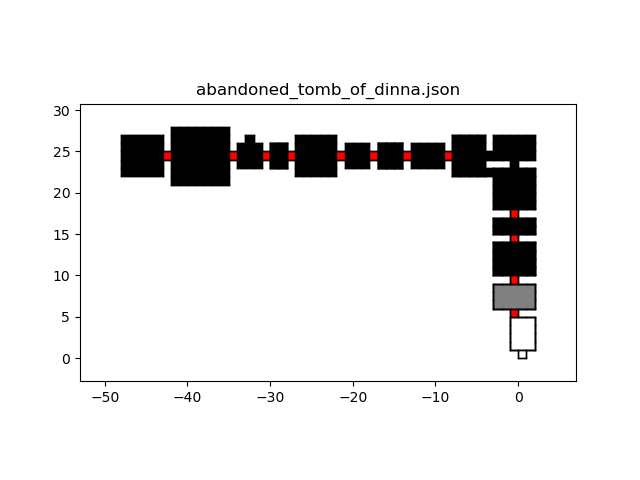
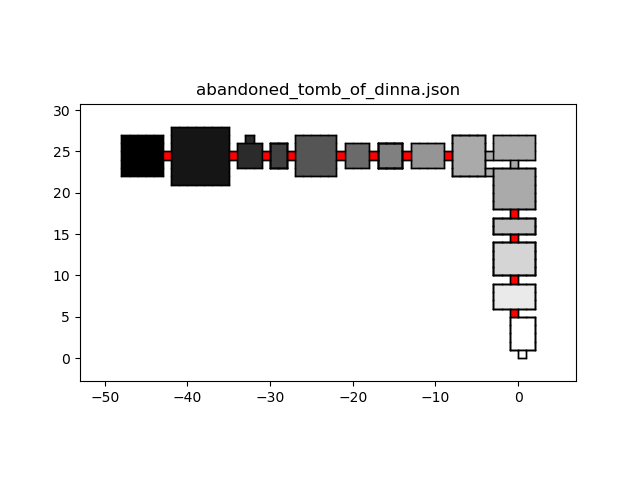
WORKING iterative lower stories

Changed region(s): [[0.375, 0.2812, 0.8438, 0.6562]]

diff --git a/Assets/Models/add-stories.py b/Assets/Models/add-stories.py
@@ -112,31 +112,37 @@ def assign_stories(rooms):
     # Update ramps adjacent to story 0
     update_adjacent_ramps(rooms, story=0)
 
-    # Assign story -1 by flood-filling from unvisited rooms adjacent to story 0 ramps
-    story_0_ramps = [room for room in rooms if room['type'] == 'ramp' and room['story'] == 0]
-    for ramp in story_0_ramps:
-        neighbors = find_adjacent_rooms(ramp, rooms)
-        for neighbor in neighbors:
-            if neighbor['story'] is None:  # Unvisited room
-                neighbor['story'] = -1
-                flood_fill_story([neighbor], rooms, story=-1)
+    # Iterative process to assign progressively lower stories
+    current_story = 0
+    while True:
+        # Find all ramps for the current story
+        current_story_ramps = [room for room in rooms if room['type'] == 'ramp' and room['story'] == current_story]
+        if not current_story_ramps:
+            break  # Exit if there are no more ramps to process
 
-        # Mark the ramp itself as story -1
-        ramp['story'] = -1
-        print(f"Updated ramp at ({ramp['x']}, {ramp['y']}) to story -1.")
+        print(f"Processing story {current_story} ramps...")
 
-    # Assign story -2 to all remaining non-ramp rooms
-    for room in rooms:
-        if room['story'] is None and room.get('type') != 'ramp':
-            room['story'] = -2
-            print(f"Assigned story -2 to room at ({room['x']}, {room['y']}).")
+        # Assign the next story to unvisited rooms adjacent to current story ramps
+        next_story = current_story - 1
+        for ramp in current_story_ramps:
+            neighbors = find_adjacent_rooms(ramp, rooms)
+            for neighbor in neighbors:
+                if neighbor['story'] is None:  # Unvisited room
+                    neighbor['story'] = next_story
+                    flood_fill_story([neighbor], rooms, story=next_story)
+
+        # Update ramps adjacent to the next story
+        update_adjacent_ramps(rooms, story=next_story)
+
+        # Move to the next story level
+        current_story = next_story
 
     print("Story assignment completed.")
     return rooms
 
-# Flood-fill for assigning stories
+# Flood-fill for assigning stories with ramp detection
 def flood_fill_story(start_rooms, rooms, story):
-    """Flood-fill to assign a story."""
+    """Flood-fill to assign a story and mark unvisited ramps blocking the fill."""
     queue = deque(start_rooms)
     while queue:
         current_room = queue.popleft()
@@ -144,10 +150,13 @@ def flood_fill_story(start_rooms, rooms, story):
         neighbors = find_adjacent_rooms(current_room, rooms)
 
         for neighbor in neighbors:
-            if neighbor['story'] is None and neighbor.get('type') != 'ramp':
+            if neighbor['story'] is None and neighbor.get('type') != 'ramp':  # Unvisited, non-ramp rooms
                 neighbor['story'] = story
                 queue.append(neighbor)
                 print(f"Flood-filled room at ({neighbor['x']}, {neighbor['y']}) with story {story}.")
+            elif neighbor['story'] is None and neighbor.get('type') == 'ramp':  # Unvisited ramp
+                neighbor['story'] = story
+                print(f"Marked ramp at ({neighbor['x']}, {neighbor['y']}) as story {story} (blocked flood-fill).")
 
 def update_adjacent_ramps(rooms, story):
     """Update ramps adjacent to rooms with the specified story."""
